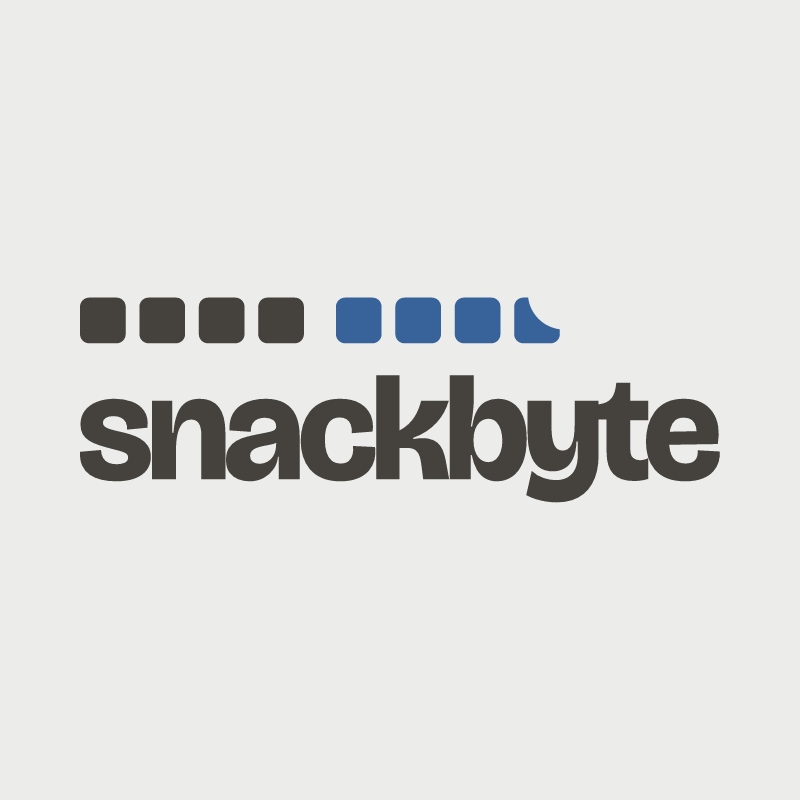
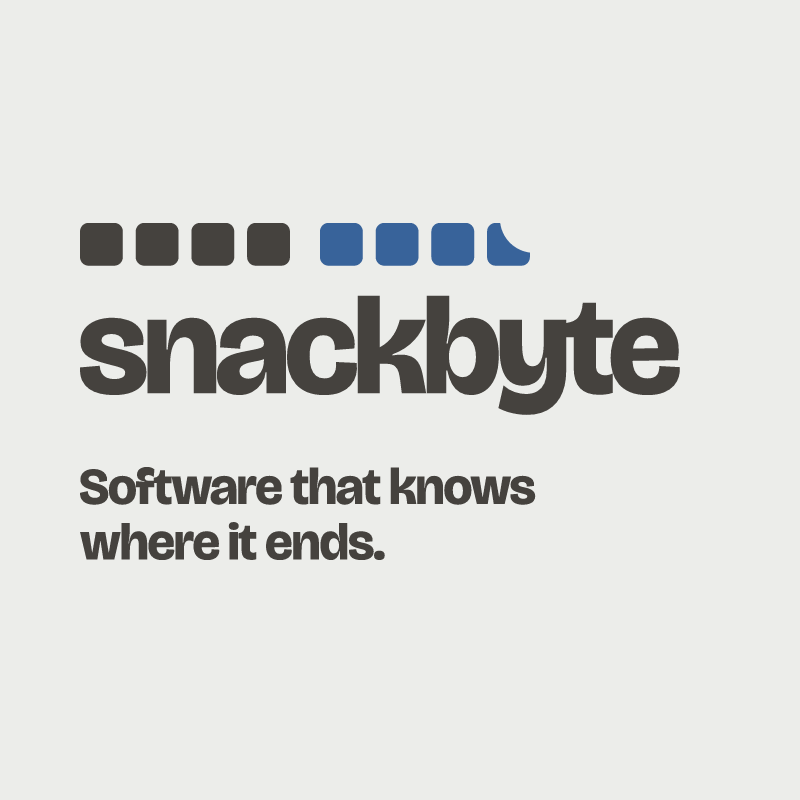
homepage: the square card carries the headline

Changed region(s): [[0.0938, 0.2812, 0.9062, 0.7188]]

diff --git a/src/web/index.html b/src/web/index.html
@@ -16,7 +16,7 @@
     <meta property="og:image" content="https://snackbyte.io/social.png" />
     <meta property="og:image:width" content="800" />
     <meta property="og:image:height" content="800" />
-    <meta property="og:image:alt" content="snackbyte" />
+    <meta property="og:image:alt" content="snackbyte. Software that knows where it ends." />
     <meta name="twitter:card" content="summary" />
     <meta name="theme-color" media="(prefers-color-scheme: light)" content="#ECEDEA" />
     <meta name="theme-color" media="(prefers-color-scheme: dark)" content="#2A2724" />

diff --git a/src/web/public/style/index.html b/src/web/public/style/index.html
@@ -14,7 +14,7 @@
 <meta property="og:image" content="https://snackbyte.io/social.png">
 <meta property="og:image:width" content="800">
 <meta property="og:image:height" content="800">
-<meta property="og:image:alt" content="snackbyte">
+<meta property="og:image:alt" content="snackbyte. Software that knows where it ends.">
 <meta name="twitter:card" content="summary">
 <link rel="icon" href="icon.svg" type="image/svg+xml">
 <link rel="preconnect" href="https://fonts.googleapis.com">

diff --git a/brand/README.md b/brand/README.md
@@ -12,24 +12,24 @@ npm run brand:assets
 The font is fetched once into `.cache/fonts/` (gitignored, OFL). This folder moves with
 the brand when it becomes its own package.
 
-| File                                               | What                                                                                                |
-| -------------------------------------------------- | --------------------------------------------------------------------------------------------------- |
-| `mark-row-{day,night}.svg`                         | The logo mark: one row, two nibbles, the bite. 105 × 10.                                            |
-| `icon-stack-{day,night}.svg`                       | The icon: the same two nibbles stacked, sky over ink. 49 × 27.                                      |
-| `tile-{day,night}.svg`                             | The icon on a 64 × 64 square of the ground colour, corner 14.                                       |
-| `tile.svg`                                         | The tile with a media query: follows the OS theme. For SVG favicons.                                |
-| `row.json`, `stack.json`                           | The two forms as path data with a role per shape, for code that fills from tokens.                  |
-| `wordmark-{day,night}.svg`                         | The name alone, outlined.                                                                           |
-| `lockup-above-{day,night}.svg`                     | Primary lockup: the row over the name, three quarters its width, one seam apart.                    |
-| `lockup-beside-{day,night}.svg`                    | Low-height lockup: the row on the baseline at x-height, one seam before the name.                   |
-| `png/*-1200.png`, `png/*-2400.png`                 | The lockups and the row as PNG, for documents and mail that will not take SVG.                      |
-| `png/social-{day,night}.png`                       | The 1200 × 630 card: lockup, headline, place. For banners that want a wide image.                   |
-| `png/social-square-{day,night}.png`                | The 800 × 800 card: the lockup alone. What the site points Open Graph at, so previews stay compact. |
-| `favicon/{day,night}/favicon.ico`                  | 16, 32 and 48, PNG-encoded.                                                                         |
-| `favicon/{day,night}/favicon-*.png`                | The same three as PNG.                                                                              |
-| `favicon/{day,night}/apple-touch-icon-180.png`     | iOS home screen.                                                                                    |
-| `favicon/{day,night}/icon-192.png`, `icon-512.png` | Android and web app manifest.                                                                       |
-| `favicon/{day,night}/icon-maskable-512.png`        | Square-cornered, for platforms that apply their own mask.                                           |
+| File                                               | What                                                                                                   |
+| -------------------------------------------------- | ------------------------------------------------------------------------------------------------------ |
+| `mark-row-{day,night}.svg`                         | The logo mark: one row, two nibbles, the bite. 105 × 10.                                               |
+| `icon-stack-{day,night}.svg`                       | The icon: the same two nibbles stacked, sky over ink. 49 × 27.                                         |
+| `tile-{day,night}.svg`                             | The icon on a 64 × 64 square of the ground colour, corner 14.                                          |
+| `tile.svg`                                         | The tile with a media query: follows the OS theme. For SVG favicons.                                   |
+| `row.json`, `stack.json`                           | The two forms as path data with a role per shape, for code that fills from tokens.                     |
+| `wordmark-{day,night}.svg`                         | The name alone, outlined.                                                                              |
+| `lockup-above-{day,night}.svg`                     | Primary lockup: the row over the name, three quarters its width, one seam apart.                       |
+| `lockup-beside-{day,night}.svg`                    | Low-height lockup: the row on the baseline at x-height, one seam before the name.                      |
+| `png/*-1200.png`, `png/*-2400.png`                 | The lockups and the row as PNG, for documents and mail that will not take SVG.                         |
+| `png/social-{day,night}.png`                       | The 1200 × 630 card: lockup, headline, place. For banners that want a wide image.                      |
+| `png/social-square-{day,night}.png`                | The 800 × 800 card: lockup and headline. What the site points Open Graph at, so previews stay compact. |
+| `favicon/{day,night}/favicon.ico`                  | 16, 32 and 48, PNG-encoded.                                                                            |
+| `favicon/{day,night}/favicon-*.png`                | The same three as PNG.                                                                                 |
+| `favicon/{day,night}/apple-touch-icon-180.png`     | iOS home screen.                                                                                       |
+| `favicon/{day,night}/icon-192.png`, `icon-512.png` | Android and web app manifest.                                                                          |
+| `favicon/{day,night}/icon-maskable-512.png`        | Square-cornered, for platforms that apply their own mask.                                              |
 
 The bite is a computed path, not a mask, so every file renders in any SVG consumer.
 Day and night are the same geometry with the palette's day and night values; the
